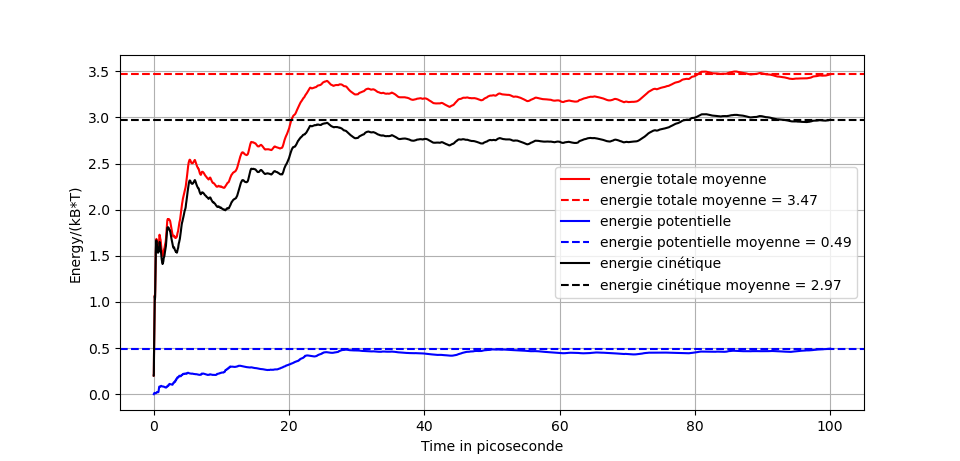
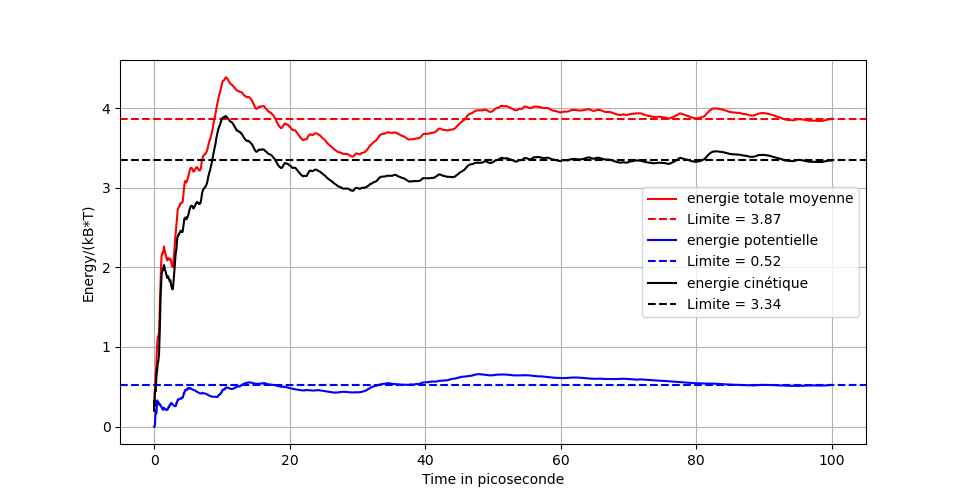
18h

diff --git a/main.py b/main.py
@@ -15,11 +15,11 @@ alpha = 1.81e10
 gamma = 1e12
 k=2*D*alpha**2 # Constante de raideur du ressort (N/m)
 T= 20
-potentiel = "Harmonique"
+potentiel = "Morse"
 # Paramètres de simulation
 
 dt = 1e-16 # Pas de temps (s)
-n_steps = 10000 # Nombre de pas de temps
+n_steps = 10000000 # Nombre de pas de temps
 
 # Fonction pour calculer la distance entre les deux atomes
 def distance(H_pos, Cl_pos):
@@ -249,11 +249,11 @@ plot12 = moyenne_cumul(Vibrational_energy/(kB*T_ther))
 #Plot Energie totale, potentielle et cinétique moyenne
 plt.figure(figsize=(10,6))
 plt.plot(temps, plot7, c="red", label="energie totale moyenne")
-plt.axhline(np.mean(Total_energy)/(kB*T_div), color='red', linestyle='--', label=f'energie totale moyenne = {np.mean(Total_energy)/(kB*T_div):.2f}')
+plt.axhline(np.mean(Total_energy)/(kB*T_div), color='red', linestyle='--', label=f'Limite = {np.mean(Total_energy)/(kB*T_div):.2f}')
 plt.plot(temps, plot9, c="blue", label="energie potentielle")
-plt.axhline(np.mean(Potential_energy)/(kB*T_div), color='blue', linestyle='--', label=f'energie potentielle moyenne = {np.mean(Potential_energy)/(kB*T_div):.2f}')
+plt.axhline(np.mean(Potential_energy)/(kB*T_div), color='blue', linestyle='--', label=f'Limite = {np.mean(Potential_energy)/(kB*T_div):.2f}')
 plt.plot(temps, plot8, c="black", label="energie cinétique")
-plt.axhline(np.mean(Kinetic_energy)/(kB*T_div), color='black', linestyle='--', label=f'energie cinétique moyenne = {np.mean(Kinetic_energy)/(kB*T_div):.2f}')
+plt.axhline(np.mean(Kinetic_energy)/(kB*T_div), color='black', linestyle='--', label=f'Limite = {np.mean(Kinetic_energy)/(kB*T_div):.2f}')
 plt.legend()
 plt.xlabel("Time in picoseconde")
 plt.ylabel("Energy/(kB*T)")
@@ -261,28 +261,28 @@ plt.grid(True)
 plt.show()
 
 #Plot Energie totale, potentielle et cinétique
-plt.figure(figsize=(10,6))
-plt.plot(temps, plot1, c="red", label="energie totale")
-# plt.axhline(np.mean(Total_energy)/(kB*T_div), color='red', linestyle='--', label=f'energie totale moyenne = {np.mean(Total_energy)/(kB*T_div):.2f}')
-plt.plot(temps, plot2, c="blue", label="energie potentielle")
-# plt.axhline(np.mean(Potential_energy)/(kB*T_div), color='blue', linestyle='--', label=f'energie potentielle moyenne = {np.mean(Potential_energy)/(kB*T_div):.2f}')
-plt.plot(temps, plot6, c="green", label="energie cinétique")
-# plt.axhline(np.mean(Kinetic_energy)/(kB*T_div), color='green', linestyle='--', label=f'energie cinétique moyenne = {np.mean(Kinetic_energy)/(kB*T_div):.2f}')
-plt.legend()
-plt.xlabel("Time in picoseconde")
-plt.ylabel("Energy/(kB*T)")
-plt.grid(True)
-plt.show()
+# plt.figure(figsize=(10,6))
+# plt.plot(temps, plot1, c="red", label="energie totale")
+# # plt.axhline(np.mean(Total_energy)/(kB*T_div), color='red', linestyle='--', label=f'energie totale moyenne = {np.mean(Total_energy)/(kB*T_div):.2f}')
+# plt.plot(temps, plot2, c="blue", label="energie potentielle")
+# # plt.axhline(np.mean(Potential_energy)/(kB*T_div), color='blue', linestyle='--', label=f'energie potentielle moyenne = {np.mean(Potential_energy)/(kB*T_div):.2f}')
+# plt.plot(temps, plot6, c="green", label="energie cinétique")
+# # plt.axhline(np.mean(Kinetic_energy)/(kB*T_div), color='green', linestyle='--', label=f'energie cinétique moyenne = {np.mean(Kinetic_energy)/(kB*T_div):.2f}')
+# plt.legend()
+# plt.xlabel("Time in picoseconde")
+# plt.ylabel("Energy/(kB*T)")
+# plt.grid(True)
+# plt.show()
 
 # #Plot Energie cinétique, de translation, de vibration et de rotation moyennes
 plt.figure(figsize=(10,6))
 plt.plot(temps, plot10, c="red", label="energie translation moyenne")
-plt.axhline(np.mean(Translation_energy)/(kB*T_div), color='red', linestyle='--', label=f'energie totale moyenne = {np.mean(Total_energy)/(kB*T_div):.2f}')
+plt.axhline(np.mean(Translation_energy)/(kB*T_div), color='red', linestyle='--', label=f'Limite = {np.mean(Translation_energy)/(kB*T_div):.2f}')
 plt.plot(temps, plot11, c="blue", label="energie de rotation moyenne")
-plt.axhline(np.mean(Rotational_energy)/(kB*T_div), color='blue', linestyle='--', label=f'energie potentielle moyenne = {np.mean(Potential_energy)/(kB*T_div):.2f}')
+plt.axhline(np.mean(Rotational_energy)/(kB*T_div), color='blue', linestyle='--', label=f'Limite = {np.mean(Rotational_energy)/(kB*T_div):.2f}')
 plt.plot(temps, plot12, c="black", label="energie de vibration moyenne")
-plt.axhline(np.mean(Vibrational_energy)/(kB*T_div), color='black', linestyle='--', label=f'energie cinétique moyenne = {np.mean(Kinetic_energy)/(kB*T_div):.2f}')
-plt.legend(loc='lower right', fontsize=7)
+plt.axhline(np.mean(Vibrational_energy)/(kB*T_div), color='black', linestyle='--', label=f'Limite = {np.mean(Vibrational_energy)/(kB*T_div):.2f}')
+plt.legend(loc='lower right', fontsize=8)
 plt.xlabel("Time in picoseconde")
 plt.ylabel("Energy/(kB*T)")
 plt.grid(True)
@@ -321,21 +321,21 @@ plt.show()
 # plt.show()
 
 #Visualisation de la distance entre H et Cl au cours du temps
-distances = [distance(H_positions[i], Cl_positions[i])*10**10 for i in range(0,n_steps-2)]
-temps = [time[i]*10**12 for i in range(0,n_steps-2)]
-plt.figure(figsize=(10, 6))
-plt.plot(temps, distances)
-plt.axhline(r_eq*10**10, color='red', linestyle='--', label='Distance d\'équilibre')
-plt.xlabel('Time in picoseconde')
-plt.ylabel('Distance H-Cl (Ångström)')
-plt.title('Distance entre H et Cl au cours du temps')
-plt.legend()
-plt.grid(True)
-if (potentiel == "Morse"):
-    plt.savefig("distance_relative_Morse.png", format="png", dpi=300)
-else :
-    plt.savefig("distance_relative_Harmonique.png", format="png", dpi=300)
-plt.show()
+# distances = [distance(H_positions[i], Cl_positions[i])*10**10 for i in range(0,n_steps-2)]
+# temps = [time[i]*10**12 for i in range(0,n_steps-2)]
+# plt.figure(figsize=(10, 6))
+# plt.plot(temps, distances)
+# plt.axhline(r_eq*10**10, color='red', linestyle='--', label='Distance d\'équilibre')
+# plt.xlabel('Time in picoseconde')
+# plt.ylabel('Distance H-Cl (Ångström)')
+# plt.title('Distance entre H et Cl au cours du temps')
+# plt.legend()
+# plt.grid(True)
+# if (potentiel == "Morse"):
+#     plt.savefig("distance_relative_Morse.png", format="png", dpi=300)
+# else :
+#     plt.savefig("distance_relative_Harmonique.png", format="png", dpi=300)
+# plt.show()
 
 
 # #Visualtion de la position sur x de H et de Cl au cours du temps
